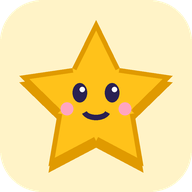
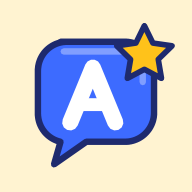
شعار جديد: فقاعة كلام فيها حرف A ونجمة
- icons/logo.svg شعار الموقع، ثابت في الرأس لكل المراحل (شعارات المراحل تبقى في بطاقاتها)
- أيقونات التطبيق (192 و512 والقابلة للقص وأبل) من الشعار الجديد، وأيقونة المتصفح SVG

diff --git a/index.html b/index.html
@@ -7,6 +7,7 @@
 <meta name="description" content="تطبيق تفاعلي لتعلّم الإنجليزي وفق المنهج السعودي، من الصف الأول الابتدائي إلى الثالث الثانوي.">
 <meta name="theme-color" content="#FFC21A">
 <link rel="manifest" href="manifest.webmanifest">
+<link rel="icon" href="icons/logo.svg" type="image/svg+xml">
 <link rel="icon" href="icons/icon-192.png" type="image/png">
 <link rel="apple-touch-icon" href="icons/apple-touch-icon.png">
 <meta name="apple-mobile-web-app-capable" content="yes">
@@ -24,7 +25,7 @@
   <div class="appbar-in">
     <button class="iconbtn" id="barBack" hidden aria-label="رجوع"><svg viewBox="0 0 24 24" aria-hidden="true"><path fill="currentColor" d="M9.3 5.3 8 6.7l5.3 5.3L8 17.3l1.3 1.4L16 12z"/></svg></button>
     <button class="brand" id="brandHome" aria-label="نجوم الإنجليزي، الرئيسية">
-      <svg viewBox="0 0 100 100" class="mascot" aria-hidden="true"><path fill="#FFC21A" stroke="#E09A00" stroke-width="4" stroke-linejoin="round" d="M50 6l12.6 26.4 28.9 3.6-21.2 20 5.5 28.6L50 70.6 24.2 84.6l5.5-28.6-21.2-20 28.9-3.6z"/><ellipse cx="40" cy="45" rx="4.5" ry="6" fill="#2A2152"/><ellipse cx="60" cy="45" rx="4.5" ry="6" fill="#2A2152"/><circle cx="41.5" cy="43" r="1.6" fill="#fff"/><circle cx="61.5" cy="43" r="1.6" fill="#fff"/><circle cx="32" cy="55" r="4" fill="#FF7FA6" opacity=".7"/><circle cx="68" cy="55" r="4" fill="#FF7FA6" opacity=".7"/><path d="M41 56q9 9 18 0" fill="none" stroke="#2A2152" stroke-width="3.5" stroke-linecap="round"/></svg>
+      <svg viewBox="0 0 100 100" class="mascot logo-mark" aria-hidden="true"><path d="M28 14h40a18 18 0 0 1 18 18v26a18 18 0 0 1-18 18H44l-20 14 4-14a18 18 0 0 1-14-17.6V32a18 18 0 0 1 18-18z" fill="#3D6BFF" stroke="#1E2A6E" stroke-width="4" stroke-linejoin="round"/><path d="M30 20h36a13 13 0 0 1 13 13v6" fill="none" stroke="#fff" stroke-opacity=".35" stroke-width="4" stroke-linecap="round"/><path d="M34 64L48 30L62 64" fill="none" stroke="#fff" stroke-width="10" stroke-linecap="round" stroke-linejoin="round"/><path d="M40 53h16" stroke="#fff" stroke-width="8" stroke-linecap="round"/><path d="M80 4l5.3 10.8 11.9 1.7-8.6 8.4 2 11.8L80 31.1l-10.6 5.6 2-11.8-8.6-8.4 11.9-1.7z" fill="#FFC21A" stroke="#1E2A6E" stroke-width="3.5" stroke-linejoin="round"/></svg>
       <b>نجوم الإنجليزي</b>
     </button>
     <span id="barTitle" aria-hidden="true"></span>

diff --git a/sw.js b/sw.js
@@ -2,13 +2,13 @@
    - كل ملفات التطبيق وبيانات الصفوف الـ12 تُحفظ عند التثبيت، فتعمل كل الوحدات دون إنترنت.
    - الملفات تُعرض من الحفظ فوراً وتُحدَّث في الخلفية عند توفر الاتصال.
    - عند نشر نسخة جديدة: غيّر VERSION، فيظهر للطالب زر «تحديث الآن». */
-const VERSION = "v4-2026-11-17";
+const VERSION = "v5-2026-11-17";
 const CACHE = "nujoom-" + VERSION;
 const FONTS = "nujoom-fonts";
 const AUDIO = "nujoom-audio";   /* ملفات النطق: تُحفظ عند أول تشغيل ولا تُحذف مع التحديثات */
 const CORE = [
   "./", "index.html", "offline.html", "css/app.css", "js/store.js", "js/app.js", "js/voice.js", "manifest.webmanifest",
-  "icons/icon-192.png", "icons/icon-512.png", "icons/maskable-512.png", "icons/apple-touch-icon.png",
+  "icons/logo.svg", "icons/icon-192.png", "icons/icon-512.png", "icons/maskable-512.png", "icons/apple-touch-icon.png",
   ...Array.from({ length: 12 }, (_, i) => `data/g${i + 1}.js`)
 ];
 
